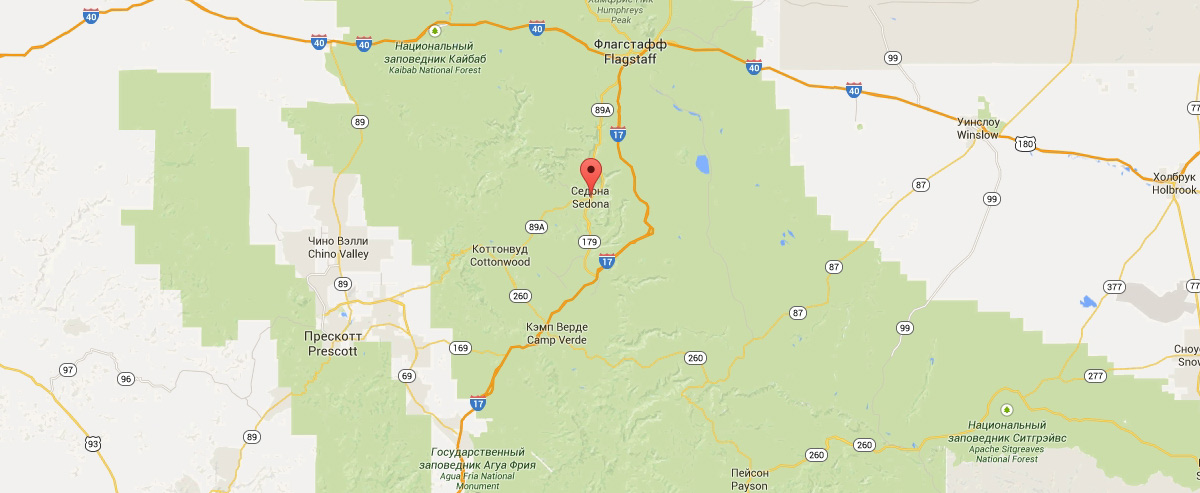
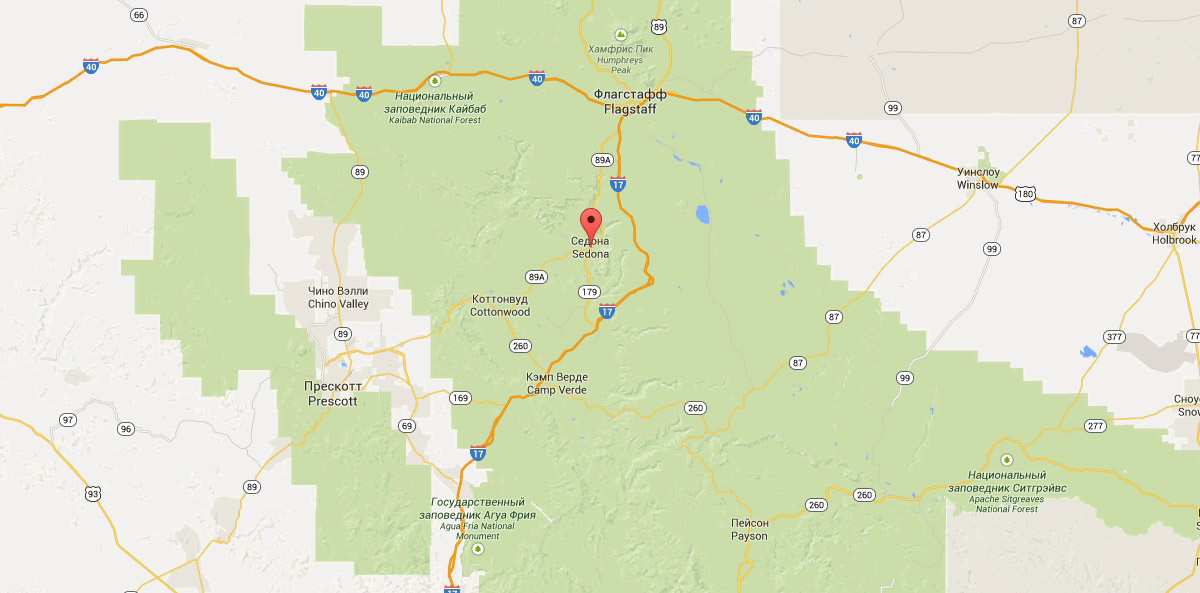
исправление карты

diff --git a/index.html b/index.html
@@ -5,11 +5,9 @@
   <meta charset="utf-8">
   <title>HTML Academy: Седона</title>
   <link href="https://fonts.googleapis.com/css?family=PT+Sans:400,700&amp;subset=cyrillic,cyrillic-ext" rel="stylesheet">
-  <!-- У минифицированных файлов должен быть префикс min, т.е normalize.min.css -->
   <link href="css/normalize.min.css" rel="stylesheet">
   <link href="css/style.css" rel="stylesheet">
 </head>
-
 <body>
   <div class="main_wrapper">
     <header class="page_header">
@@ -25,7 +23,6 @@
       <h1 class="visually_hidden">Добро пожаловать в великолепную Седону</h1>
     </header>
     <main class="page_main">
-      <!-- Контентная картинка, находится в папке decor, а должна находится в папке content -->
       <img class="title_text" src="img/content/intro-welcome.svg" alt="Welcome to the gorgeous Sedona" width="459"
         height="353">
       <section class="promo">
@@ -40,8 +37,6 @@
               <p>— №1 —</p>
               <p>Седона — не аттракцион для туристов, там течёт своя жизнь</p>
             </div>
-            <!-- Контентная картинка, находится в папке decor, а должна находится в папке content -->
-            <!-- Нет ширины и высоты у картинки -->
             <img src="img/content/index_first_decor.jpg" width="800" height="256" alt="Настоящий городок">
           </header>
           <ul class="feature_list">
@@ -121,61 +116,65 @@
           </p>
           <button class="find_button" type="submit">Найти</button>
         </form>
-        <img class="map" src="img/content/index_map.jpg" width="1200" height="473" alt="Карта окрестностей города Седона">
       </section>
     </main>
-    <footer class="page_footer">
-      <div class="hashtag">
-        <p>#VISITSEDONA</p>
-      </div>
-      <section class="social">
-        <h2 class="visually_hidden">Седона в социальных сетях</h2>
-        <ul class="social_buttons">
-          <!-- А общий класс для стилизации ссылок? В данно случае будет вот так social_link social_vk -->
-          <li class="social_tw">
-            <a class="social_link social_tw" href="https://Twitter.com" aria-label="Наша страница в Twitter">
-              <svg xmlns="http://www.w3.org/2000/svg" xmlns:xlink="http://www.w3.org/1999/xlink" width="17" height="15"
-                viewBox="0 0 17 15">
-                <path fill="#FFF" d="M10.95.144c1.685-.496 2.984.27 3.577 1.179.673-.231 1.331-.481 2.011-.708a2.345 2.345 0 0 1-.857 1.768c.685.17 1.304-.491 1.304-.491-.169 1-1.006 1.788-1.563 2.024-.231 6.75-3.175 11.217-10.077 11.082h-.446c-.41 0-4.164-.46-4.898-1.887 2.271.196 3.893-.422 4.693-1.177-.96-.3-2.679-.477-2.979-2.95.349.106.564.228 1.19.119C1.705 8.247.374 7.53.448 5.33c.285.328 1.067.536 1.34.472C1.085 5.561-.182 2.442.894.85c1.818 1.854 3.735 3.606 7.152 3.773C8.254 2.33 9.183.793 10.95.144z" />
+    <footer class="footer_main">
+      <img class="map" src="img/content/index_map.jpg" width="1200" height="593" alt="Карта окрестностей города Седона">
+      <iframe class="map"
+        src="https://www.google.com/maps/embed?pb=!1m18!1m12!1m3!1d124609.83123080761!2d-111.81856173999012!3d34.84369301759337!2m3!1f0!2f0!3f0!3m2!1i1024!2i768!4f13.1!3m3!1m2!1s0x872da132f942b00d%3A0x5548c523fa6c8efd!2z0KHQtdC00L7QvdCwLCDQkNGA0LjQt9C-0L3QsCA4NjMzNiwg0KHQqNCQ!5e0!3m2!1sru!2sru!4v1544964436744" 
+        width="1200" height="593" frameborder="0" style="border:0" allowfullscreen>
+      </iframe>
+      <footer class="page_footer">
+        <div class="hashtag">
+          <p>#VISITSEDONA</p>
+        </div>
+        <section class="social">
+          <h2 class="visually_hidden">Седона в социальных сетях</h2>
+          <ul class="social_buttons">
+            <li class="social_tw">
+              <a class="social_link social_tw" href="https://Twitter.com" aria-label="Наша страница в Twitter">
+                <svg xmlns="http://www.w3.org/2000/svg" xmlns:xlink="http://www.w3.org/1999/xlink" width="17" height="15"
+                  viewBox="0 0 17 15">
+                  <path fill="#FFF" d="M10.95.144c1.685-.496 2.984.27 3.577 1.179.673-.231 1.331-.481 2.011-.708a2.345 2.345 0 0 1-.857 1.768c.685.17 1.304-.491 1.304-.491-.169 1-1.006 1.788-1.563 2.024-.231 6.75-3.175 11.217-10.077 11.082h-.446c-.41 0-4.164-.46-4.898-1.887 2.271.196 3.893-.422 4.693-1.177-.96-.3-2.679-.477-2.979-2.95.349.106.564.228 1.19.119C1.705 8.247.374 7.53.448 5.33c.285.328 1.067.536 1.34.472C1.085 5.561-.182 2.442.894.85c1.818 1.854 3.735 3.606 7.152 3.773C8.254 2.33 9.183.793 10.95.144z" />
+                </svg>
+                <span class="visually_hidden">Twitter</span>
+              </a>
+            </li>
+            <li class="social_fb">
+              <a class="social_link social_fb" href="https://facebook.com" aria-label="Наша страница на Facebook">
+                <svg xmlns="http://www.w3.org/2000/svg" width="12" height="22" viewBox="0 0 12 22">
+                  <path fill="#FFF" d="M12 4V0H8a4 4 0 0 0-4 4v4H0v4h4v10h4V12h4V8H8V4h4z" />
+                </svg>
+                <span class="visually_hidden">Facebook</span>
+              </a>
+            </li>
+            <li class="social_ut">
+              <a class="social_link social_ut" href="https://youtube.com" aria-label="Наш канал на YouTube">
+                <svg xmlns="http://www.w3.org/2000/svg" xmlns:xlink="http://www.w3.org/1999/xlink" width="20" height="16"
+                  viewBox="0 0 20 16">
+                  <path fill="#FFF" d="M17 0H3C1.35 0 0 1.35 0 3v10c0 1.65 1.35 3 3 3h14c1.65 0 3-1.35 3-3V3c0-1.65-1.35-3-3-3zM6.027 11.998V4.002L15.014 8l-8.987 3.998z" />
+                </svg>
+                <span class="visually_hidden">YouTube</span>
+              </a>
+            </li>
+          </ul>
+        </section>
+        <section class="developed">
+          <h2 class="visually_hidden">Информация о разработчике</h2>
+          <p>
+            <span class="developed_text">Website by</span>
+            <a href="https://htmlacademy.ru/intensive/htmlcss" aria-label="HTML Academy">
+              <svg class="dev_logo" id="Layer_1" data-name="Layer 1" xmlns="http://www.w3.org/2000/svg" viewBox="0 0 108.08 36.85"
+                width="115" height="41">
+                <title>HTML Academy</title>
+                <path d="M44.61,26.88a2,2,0,0,0,.55-0.1v1.33a3.25,3.25,0,0,1-1.18.21,1.67,1.67,0,0,1-1.67-1,4.84,4.84,0,0,1-3.14,1.08c-1.51,0-2.91-.83-2.91-2.55,0-2.13,2-2.79,3.71-2.79a11.08,11.08,0,0,1,2.17.25v-0.3c0-1-.76-1.77-2.19-1.77a7.42,7.42,0,0,0-3,.64v-1.7a10.21,10.21,0,0,1,3.19-.55c2.36,0,3.81,1.12,3.81,3.65v3a0.54,0.54,0,0,0,.49.59h0.17Zm-6.44-1.13A1.35,1.35,0,0,0,39.63,27h0.11a3.39,3.39,0,0,0,2.41-1V24.58a9.72,9.72,0,0,0-1.81-.21c-1,0-2.16.33-2.16,1.38h0Zm12.36-6.11a5,5,0,0,1,2.57.64V22a4.08,4.08,0,0,0-2.3-.7,2.75,2.75,0,1,0,0,5.49,5,5,0,0,0,2.43-.64v1.71a6.27,6.27,0,0,1-2.76.57A4.21,4.21,0,0,1,46,24.51q0-.21,0-0.41a4.32,4.32,0,0,1,4.18-4.46h0.38Zm12.17,7.24a2,2,0,0,0,.55-0.1v1.33a3.25,3.25,0,0,1-1.18.21,1.67,1.67,0,0,1-1.67-1,4.84,4.84,0,0,1-3.14,1.08c-1.51,0-2.91-.83-2.91-2.55,0-2.13,2-2.79,3.71-2.79a11.08,11.08,0,0,1,2.17.25v-0.3c0-1-.76-1.77-2.19-1.77a7.42,7.42,0,0,0-3,.64v-1.7a10.21,10.21,0,0,1,3.19-.55c2.36,0,3.81,1.12,3.81,3.65v3a0.54,0.54,0,0,0,.49.59h0.17Zm-6.44-1.13A1.35,1.35,0,0,0,57.73,27h0.11a3.39,3.39,0,0,0,2.41-1V24.58a9.72,9.72,0,0,0-1.81-.21c-1.06,0-2.16.33-2.16,1.38h0ZM73,16V28.2H71.35V26.88a3.88,3.88,0,0,1-3.19,1.54,4.4,4.4,0,0,1,0-8.78,3.81,3.81,0,0,1,3,1.3V16H73Zm-4.53,5.22a2.76,2.76,0,1,0,0,5.52A2.86,2.86,0,0,0,71.15,25V23A2.91,2.91,0,0,0,68.49,21.27ZM79,19.64c3.31,0,4.46,2.68,3.92,5.09H76.7c0.21,1.5,1.67,2.11,3.19,2.11a6.11,6.11,0,0,0,2.64-.59v1.6a7.14,7.14,0,0,1-3,.57C77,28.42,74.78,27,74.78,24a4.18,4.18,0,0,1,4-4.39H79Zm0.09,1.54a2.28,2.28,0,0,0-2.44,2.1v0.06H81.3A2,2,0,0,0,79.13,21.18Zm5.73,7V19.87h1.65v1a3.81,3.81,0,0,1,2.78-1.27A2.86,2.86,0,0,1,91.89,21a4.12,4.12,0,0,1,2.91-1.33A3.06,3.06,0,0,1,98,23V28.2h-1.9V23.05a1.59,1.59,0,0,0-1.42-1.75H94.42a2.8,2.8,0,0,0-2.07,1.12V28.2h-1.9V23.05A1.59,1.59,0,0,0,89,21.31H88.8a3,3,0,0,0-2.21,1.29v5.63H84.86Zm21.31-8.33h1.9l-3.91,9.46c-0.9,2.17-2.09,2.86-3.35,2.86a4.76,4.76,0,0,1-1.1-.14V30.46a2.86,2.86,0,0,0,.85.12c0.9,0,1.58-.64,2.07-1.9l0.17-.42-4-8.4h2l2.86,6.29ZM38.73,1.46V6.22a3.81,3.81,0,0,1,2.7-1.14,3.25,3.25,0,0,1,3.44,3.4v5.15H43V8.72a1.81,1.81,0,0,0-1.61-2h-0.3a2.93,2.93,0,0,0-2.32,1.39v5.52h-1.9V1.46h1.9ZM49.94,2.31v3h3V6.91h-3v3.81c0,1.1.5,1.46,1.58,1.46a4.49,4.49,0,0,0,1.69-.33v1.6A6.8,6.8,0,0,1,51,13.8a2.55,2.55,0,0,1-2.86-2.74V6.89H46.58V5.26h1.5V2.74Zm5.4,11.31V5.28H57v1A3.81,3.81,0,0,1,59.77,5a2.86,2.86,0,0,1,2.6,1.33A4.12,4.12,0,0,1,65.28,5,3.06,3.06,0,0,1,68.44,8.4v5.21h-1.9V8.46a1.59,1.59,0,0,0-1.42-1.75H64.89a2.8,2.8,0,0,0-2.07,1.12v5.78h-1.9V8.46A1.59,1.59,0,0,0,59.5,6.71H59.27A3,3,0,0,0,57.06,8v5.63H55.34ZM71.17,1.45H73V13.6H71.17V1.45ZM14.71,0H14.55L0,1.54V28.21l14.55,8.66,14.55-8.66V1.54Zm12.5,27.1L14.55,34.64,1.9,27.12V16.18l12.59,7.5V25L5.86,19.9v1.31l8.68,5.21v1.39L5.87,22.65V24l8.68,5.21,8.75-5.24V18.31L27.2,16V27.12Zm0-12.53-3.48,2-1.6,1L14.51,13v1.31L21,18.23H21l-0.14.09-1,.54-5.37-3.2V17l4.24,2.52-1,.67-3.2-1.9v1.31l2.1,1.24L14.5,22.1,2,14.65,14.51,7.11Zm0-1.32L14.49,5.76,1.91,13.25v-10L14.56,1.92,27.21,3.25v10h0Z"
+                  transform="translate(0 -0.02)" />
               </svg>
-              <span class="visually_hidden">Twitter</span>
             </a>
-          </li>
-          <li class="social_fb">
-            <a class="social_link social_fb" href="https://facebook.com" aria-label="Наша страница на Facebook">
-              <svg xmlns="http://www.w3.org/2000/svg" width="12" height="22" viewBox="0 0 12 22">
-                <path fill="#FFF" d="M12 4V0H8a4 4 0 0 0-4 4v4H0v4h4v10h4V12h4V8H8V4h4z" />
-              </svg>
-              <span class="visually_hidden">Facebook</span>
-            </a>
-          </li>
-          <li class="social_ut">
-            <a class="social_link social_ut" href="https://youtube.com" aria-label="Наш канал на YouTube">
-              <svg xmlns="http://www.w3.org/2000/svg" xmlns:xlink="http://www.w3.org/1999/xlink" width="20" height="16"
-                viewBox="0 0 20 16">
-                <path fill="#FFF" d="M17 0H3C1.35 0 0 1.35 0 3v10c0 1.65 1.35 3 3 3h14c1.65 0 3-1.35 3-3V3c0-1.65-1.35-3-3-3zM6.027 11.998V4.002L15.014 8l-8.987 3.998z" />
-              </svg>
-              <span class="visually_hidden">YouTube</span>
-            </a>
-          </li>
-        </ul>
-      </section>
-      <section class="developed">
-        <h2 class="visually_hidden">Информация о разработчике</h2>
-        <p>
-          <span class="developed_text">Website by</span>
-          <a href="https://htmlacademy.ru/intensive/htmlcss" aria-label="HTML Academy">
-            <svg class="dev_logo" id="Layer_1" data-name="Layer 1" xmlns="http://www.w3.org/2000/svg" viewBox="0 0 108.08 36.85"
-              width="115" height="41">
-              <title>HTML Academy</title>
-              <path d="M44.61,26.88a2,2,0,0,0,.55-0.1v1.33a3.25,3.25,0,0,1-1.18.21,1.67,1.67,0,0,1-1.67-1,4.84,4.84,0,0,1-3.14,1.08c-1.51,0-2.91-.83-2.91-2.55,0-2.13,2-2.79,3.71-2.79a11.08,11.08,0,0,1,2.17.25v-0.3c0-1-.76-1.77-2.19-1.77a7.42,7.42,0,0,0-3,.64v-1.7a10.21,10.21,0,0,1,3.19-.55c2.36,0,3.81,1.12,3.81,3.65v3a0.54,0.54,0,0,0,.49.59h0.17Zm-6.44-1.13A1.35,1.35,0,0,0,39.63,27h0.11a3.39,3.39,0,0,0,2.41-1V24.58a9.72,9.72,0,0,0-1.81-.21c-1,0-2.16.33-2.16,1.38h0Zm12.36-6.11a5,5,0,0,1,2.57.64V22a4.08,4.08,0,0,0-2.3-.7,2.75,2.75,0,1,0,0,5.49,5,5,0,0,0,2.43-.64v1.71a6.27,6.27,0,0,1-2.76.57A4.21,4.21,0,0,1,46,24.51q0-.21,0-0.41a4.32,4.32,0,0,1,4.18-4.46h0.38Zm12.17,7.24a2,2,0,0,0,.55-0.1v1.33a3.25,3.25,0,0,1-1.18.21,1.67,1.67,0,0,1-1.67-1,4.84,4.84,0,0,1-3.14,1.08c-1.51,0-2.91-.83-2.91-2.55,0-2.13,2-2.79,3.71-2.79a11.08,11.08,0,0,1,2.17.25v-0.3c0-1-.76-1.77-2.19-1.77a7.42,7.42,0,0,0-3,.64v-1.7a10.21,10.21,0,0,1,3.19-.55c2.36,0,3.81,1.12,3.81,3.65v3a0.54,0.54,0,0,0,.49.59h0.17Zm-6.44-1.13A1.35,1.35,0,0,0,57.73,27h0.11a3.39,3.39,0,0,0,2.41-1V24.58a9.72,9.72,0,0,0-1.81-.21c-1.06,0-2.16.33-2.16,1.38h0ZM73,16V28.2H71.35V26.88a3.88,3.88,0,0,1-3.19,1.54,4.4,4.4,0,0,1,0-8.78,3.81,3.81,0,0,1,3,1.3V16H73Zm-4.53,5.22a2.76,2.76,0,1,0,0,5.52A2.86,2.86,0,0,0,71.15,25V23A2.91,2.91,0,0,0,68.49,21.27ZM79,19.64c3.31,0,4.46,2.68,3.92,5.09H76.7c0.21,1.5,1.67,2.11,3.19,2.11a6.11,6.11,0,0,0,2.64-.59v1.6a7.14,7.14,0,0,1-3,.57C77,28.42,74.78,27,74.78,24a4.18,4.18,0,0,1,4-4.39H79Zm0.09,1.54a2.28,2.28,0,0,0-2.44,2.1v0.06H81.3A2,2,0,0,0,79.13,21.18Zm5.73,7V19.87h1.65v1a3.81,3.81,0,0,1,2.78-1.27A2.86,2.86,0,0,1,91.89,21a4.12,4.12,0,0,1,2.91-1.33A3.06,3.06,0,0,1,98,23V28.2h-1.9V23.05a1.59,1.59,0,0,0-1.42-1.75H94.42a2.8,2.8,0,0,0-2.07,1.12V28.2h-1.9V23.05A1.59,1.59,0,0,0,89,21.31H88.8a3,3,0,0,0-2.21,1.29v5.63H84.86Zm21.31-8.33h1.9l-3.91,9.46c-0.9,2.17-2.09,2.86-3.35,2.86a4.76,4.76,0,0,1-1.1-.14V30.46a2.86,2.86,0,0,0,.85.12c0.9,0,1.58-.64,2.07-1.9l0.17-.42-4-8.4h2l2.86,6.29ZM38.73,1.46V6.22a3.81,3.81,0,0,1,2.7-1.14,3.25,3.25,0,0,1,3.44,3.4v5.15H43V8.72a1.81,1.81,0,0,0-1.61-2h-0.3a2.93,2.93,0,0,0-2.32,1.39v5.52h-1.9V1.46h1.9ZM49.94,2.31v3h3V6.91h-3v3.81c0,1.1.5,1.46,1.58,1.46a4.49,4.49,0,0,0,1.69-.33v1.6A6.8,6.8,0,0,1,51,13.8a2.55,2.55,0,0,1-2.86-2.74V6.89H46.58V5.26h1.5V2.74Zm5.4,11.31V5.28H57v1A3.81,3.81,0,0,1,59.77,5a2.86,2.86,0,0,1,2.6,1.33A4.12,4.12,0,0,1,65.28,5,3.06,3.06,0,0,1,68.44,8.4v5.21h-1.9V8.46a1.59,1.59,0,0,0-1.42-1.75H64.89a2.8,2.8,0,0,0-2.07,1.12v5.78h-1.9V8.46A1.59,1.59,0,0,0,59.5,6.71H59.27A3,3,0,0,0,57.06,8v5.63H55.34ZM71.17,1.45H73V13.6H71.17V1.45ZM14.71,0H14.55L0,1.54V28.21l14.55,8.66,14.55-8.66V1.54Zm12.5,27.1L14.55,34.64,1.9,27.12V16.18l12.59,7.5V25L5.86,19.9v1.31l8.68,5.21v1.39L5.87,22.65V24l8.68,5.21,8.75-5.24V18.31L27.2,16V27.12Zm0-12.53-3.48,2-1.6,1L14.51,13v1.31L21,18.23H21l-0.14.09-1,.54-5.37-3.2V17l4.24,2.52-1,.67-3.2-1.9v1.31l2.1,1.24L14.5,22.1,2,14.65,14.51,7.11Zm0-1.32L14.49,5.76,1.91,13.25v-10L14.56,1.92,27.21,3.25v10h0Z"
-                transform="translate(0 -0.02)" />
-            </svg>
-          </a>
-        </p>
-      </section>
+          </p>
+        </section>
+      </footer>
     </footer>
   </div>
 </body>
-
 </html>

diff --git a/css/style.css b/css/style.css
@@ -1043,14 +1043,25 @@ a {
 }
 
 /* Футер */
-
+.footer_main {
+  position: relative;
+}
+.map {
+  display: block;
+  position: absolute;
+  top: -473px;
+  z-index: -1;
+}
 .page_footer {
   display: -webkit-box;
   display: -ms-flexbox;
   display: flex;
+  z-index: 1;
+  margin-top: 473px;
   padding-top: 25px;
   padding-bottom: 36px;
   background-color: #fdfdfc;
+  opacity: 0.9;
   text-align: center;
   color: #000;
 }
@@ -1060,6 +1071,7 @@ a {
   width: 400px;
 }
 .hashtag p {
+  margin-top: 0;
   font-size: 21px;
   font-weight: 700;
   line-height: 26px;
